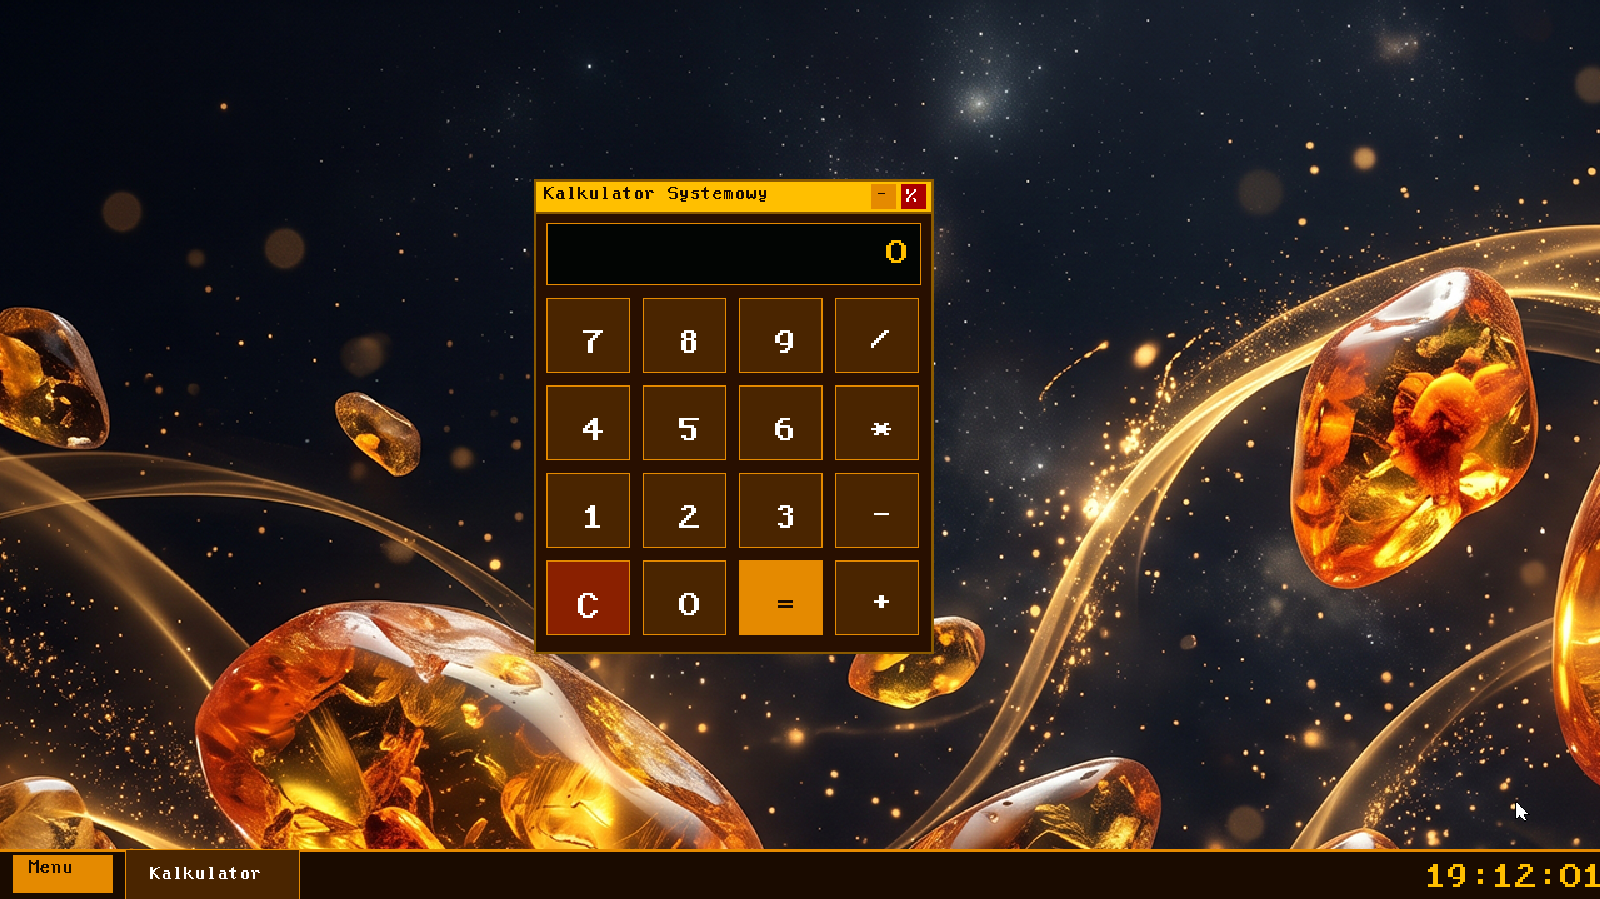
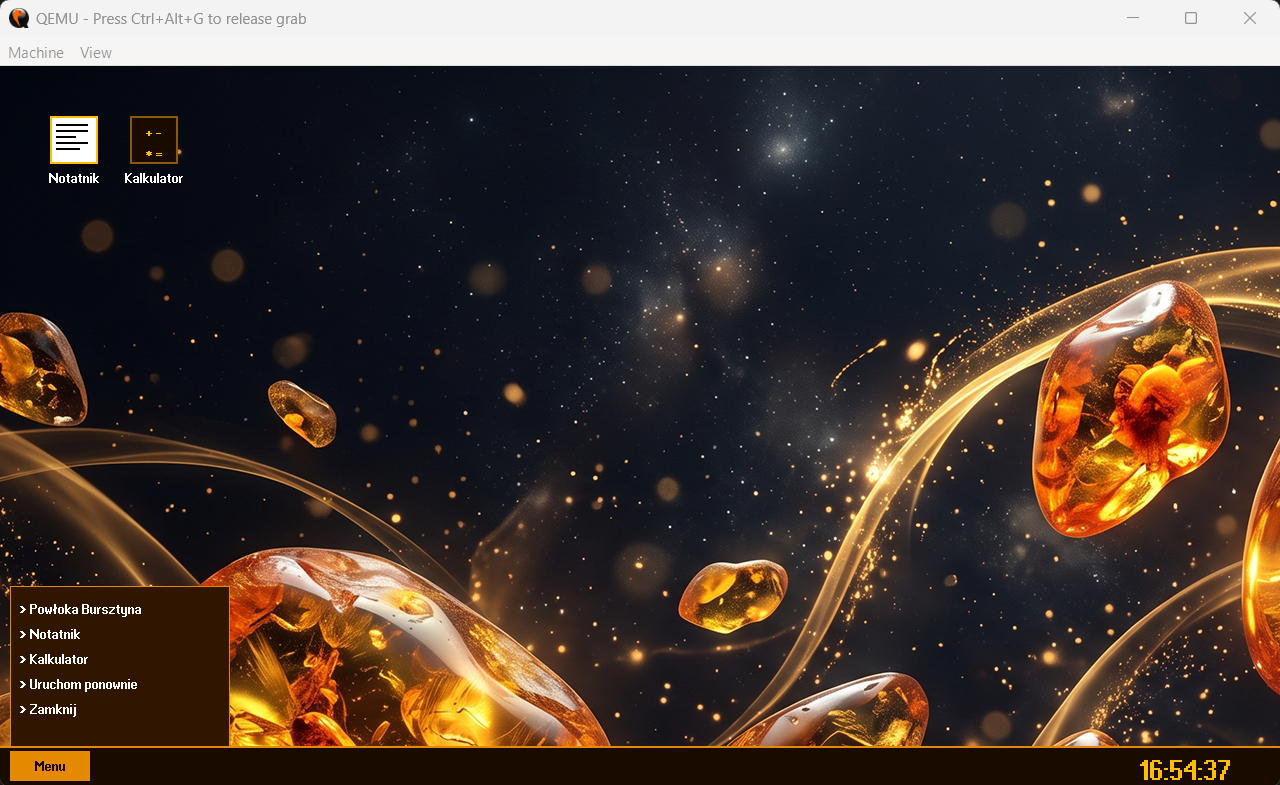
Aktualizacja licencji

diff --git a/README.md b/README.md
@@ -12,37 +12,30 @@ System jest rozwijany z myślą o architekturze x86-64, implementując własne J
 
 ## Pulpit Bursztyna
 
-![alt](image/pulpit/pulpit-bursztyna.png)
+![alt](image/pulpit/1.png)
 
 ![alt](image/pulpit/2.png)
 
 ![alt](image/pulpit/3.png)
 
-### Pobranie strony avocado-code.com
+![alt](image/pulpit/4.png)
 
-![alt](image/BurstzynOS-http.png)
-
-### Ping strony
-
-![alt](image/BursztynOS-ping.png)
+## Polecenie w Powłoce Bursztynowej pomoc
+![alt](image/pulpit/5.png)
 ### Prosty kalkulator w Burstzyn OS z GUI.
 
-![alt](image/pulpit/2.png)
+![alt](image/pulpit/6.png)
 
 # Pierwsza aplikacja z GUI działająca w Ring 3
-### Abu uruchomić notatnik wpisz polecenie w powłoce. uruchom /programy/notatnik.cebula/notatnik.bur
+### Abu uruchomić notatnik możesz wpisać polecenie w powłoce. uruchom /programy/notatnik.cebula/notatnik.bur
+Lub na pulpicie jest ikonka notatnika
 ## Notatnik
-![alt](image/notatnik/notatnik1.png)
-## Notatnik
-![alt](image/notatnik/notatnik2.png)
-## Notatnik
-![alt](image/notatnik/notatnik3.png)
-## Notatnik
-![alt](image/notatnik/notatnik4.png)
+![alt](image/pulpit/7.png)
 
 
 
-## Dostępne 21 komend w Shellu
+
+## Dostępne 22 komend w Shellu
 1. pomoc - wyświetla dostępną listę komend.
 1. system - wypisuje informacje o architekturze Bursztyn OS.
 1. wersja - krótka informacja o wersji powłoki i OS
@@ -65,6 +58,7 @@ System jest rozwijany z myślą o architekturze x86-64, implementując własne J
 1. pisz [tekst] - wypisuje podany tekst na ekran
 1. cytat - wczytuje i wyświetla cytaty z pliku
 1. losuj - rzuca wirtualną kością (wynik 1-6).
+1. wyjdz - zamyka powłokę bursztynową shell
 
     
 
